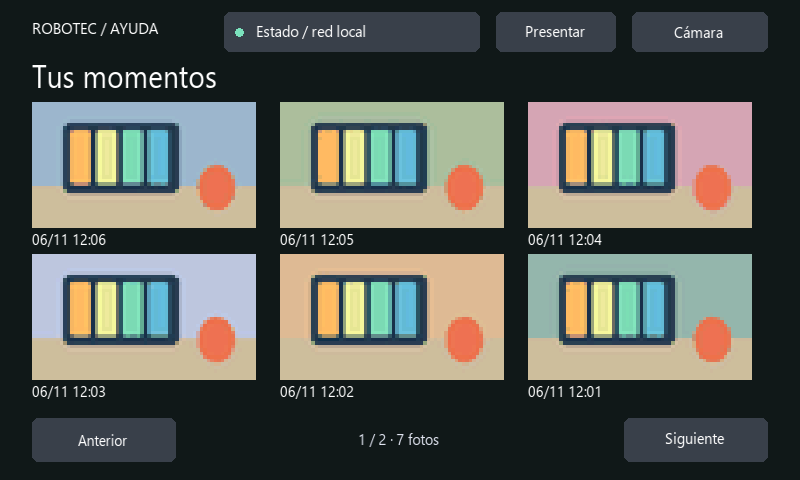
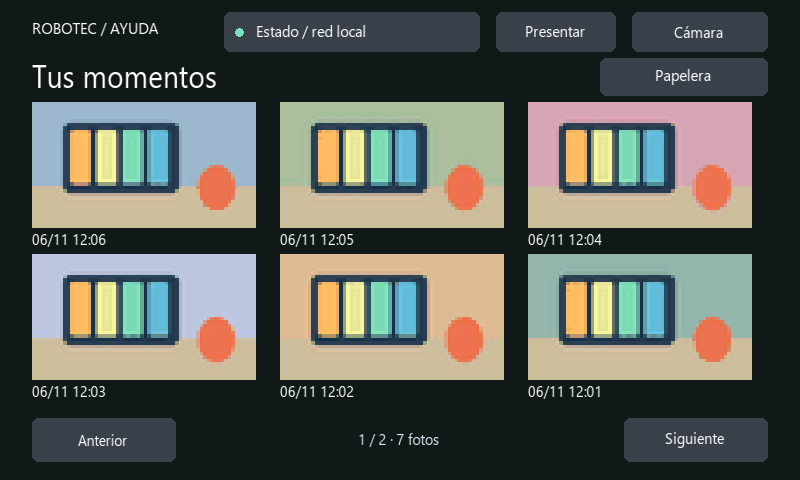
Añade eliminación confirmada y papelera privada al álbum

Changed region(s): [[0.75, 0.0938, 0.9688, 0.2188]]

diff --git a/gallery_views.py b/gallery_views.py
@@ -5,6 +5,63 @@ from photo_library import FILTERS
 
 
 class GalleryViews:
+    def photo_dialog(self, action, item=None):
+        self._photo_action=(action,item)
+        self.artwork.clear(); self.art_key=None; self.cache.clear()
+        self.dirty=True
+
+    def draw_photo_dialog(self):
+        action,item=self._photo_action; c=self.theme
+        if action=='trash_list':
+            entries=self.photos.trash_items(unlocked=self.unlocked)
+            index=max(0,min(getattr(self,'_trash_index',0),len(entries)-1))
+            self._trash_index=index; item=entries[index] if entries else None
+            self._trash_item=item
+            title='Papelera / '+str(index+1)+' de '+str(len(entries)) if entries else 'Papelera vacía'
+            message='Puedes restaurar la foto o eliminarla definitivamente.' if entries else 'Las fotos eliminadas del álbum aparecerán aquí.'
+        elif action=='error':
+            title='No se pudo completar'
+            message='La foto se conserva. Espera a que termine la cámara y vuelve a intentarlo.'
+        else:
+            title='¿Eliminar esta foto?' if action=='trash' else '¿Eliminar definitivamente?'
+            message='Se moverá a la papelera. Podrás recuperarla.' if action=='trash' else 'Esta acción no se puede deshacer.'
+        self.text('photodialogtitle',48,90,704,48,0,title,c['ink'],c['bg'],1)
+        name=(item or {}).get('name','')
+        self.text('photodialogname',48,166,704,30,2,self.fit(name,704),c['muted'],c['bg'],1)
+        self.paragraph('photodialogmessage',80,218,640,message,2,0)
+        self.soft_button('photocancel',48,400,200,52,'Volver' if action=='trash_list' else 'Cancelar')
+        if action=='trash_list':
+            if item:
+                self.soft_button('trashprev',48,312,152,48,'Anterior')
+                self.soft_button('trashnext',600,312,152,48,'Siguiente')
+                self.soft_button('trashrestore',268,400,220,52,'Restaurar',True)
+                self.soft_button('trashpurge',508,400,244,52,'Borrar para siempre')
+        elif action!='error': self.soft_button('photoconfirm',508,400,244,52,'Eliminar',True)
+
+    def touch_photo_dialog(self,x,y):
+        if not self.unlocked: return False
+        action,item=self._photo_action
+        if 12<=y<52 and 632<=x<768 or 400<=y<452 and 48<=x<248:
+            self.navigate(self.screen); return True
+        if action=='trash_list':
+            if 312<=y<360 and (48<=x<200 or 600<=x<752):
+                self._trash_index=max(0,getattr(self,'_trash_index',0)+(-1 if x<200 else 1))
+                self.photo_dialog('trash_list'); return True
+            item=getattr(self,'_trash_item',None)
+            if not item: return True
+            if 400<=y<452 and 268<=x<488:
+                if self.photos.manage_photo('restore',item['token'],item['signature'],unlocked=True):
+                    self.navigate('gallery_grid')
+                else: self.photo_dialog('error')
+            elif 400<=y<452 and 508<=x<752: self.photo_dialog('purge',item)
+        elif action in ('trash','purge') and 400<=y<452 and 508<=x<752:
+            name=item['name'] if action=='trash' else item['token']
+            success=self.photos.manage_photo(action,name,item['signature'],unlocked=True)
+            self.navigate('gallery_grid')
+            if success: self.photo_dialog('trash_list')
+            else: self.photo_dialog('error')
+        return True
+
     def gallery_clear_preview(self):
         self.artwork.clear(); self.art_key=None
         self.fill(32,100,528,297,self.theme['card'])
@@ -12,12 +69,14 @@ class GalleryViews:
             self.cache.pop(key,None)
 
     def draw_gallery(self):
+        if getattr(self,'_photo_action',None): self.draw_photo_dialog(); return
         c=self.theme; library=getattr(self,'photos',None)
         state=library.snapshot(unlocked=self.unlocked) if library else None
         count=state['count'] if state else 0
         index=state['index'] if count else -1
         title='Galería / '+str(index+1)+' de '+str(count) if count else 'Galería'
-        self.text('gallerytitle',32,64,528,28,2,title,c['ink'],c['bg'])
+        self.text('gallerytitle',32,64,348,28,2,title,c['ink'],c['bg'])
+        if count: self.soft_button('gallerydelete',400,58,160,38,'Eliminar',False,2)
         self.text('galleryeffects',584,64,184,28,2,'EFECTOS',c['muted'],c['bg'],1)
         selected=state['filter'] if state else 'Original'
         for i,label in enumerate(FILTERS):
@@ -55,6 +114,11 @@ class GalleryViews:
     def touch_gallery(self,x,y):
         library=getattr(self,'photos',None)
         if not self.unlocked or not library: return False
+        if getattr(self,'_photo_action',None): return self.touch_photo_dialog(x,y)
+        if 400<=x<560 and 58<=y<96:
+            item=library.selected_revision(unlocked=True)
+            if item: self.photo_dialog('trash',item)
+            return True
         if 632<=x<768 and 12<=y<52:
             self.navigate('gallery_grid'); return True
         state=library.snapshot(unlocked=True)

diff --git a/tests/test_photo_trash.py b/tests/test_photo_trash.py
@@ -1,0 +1,80 @@
+"""Papelera: revisión confirmada, conservación, privacidad y controles."""
+import hashlib
+import os
+from pathlib import Path
+import sys
+import tempfile
+import unittest
+sys.path.insert(0,str(Path(__file__).resolve().parents[1]))
+from PIL import Image
+from photo_library import PhotoLibrary
+from camera_tools import CameraController
+from test_photo_library import FakeCamera
+from test_gallery_views import value_with_photos
+
+
+class TrashTests(unittest.TestCase):
+    def setUp(self):
+        tmp=tempfile.TemporaryDirectory(); self.addCleanup(tmp.cleanup)
+        self.camera=FakeCamera(tmp.name)
+        self.path=self.camera.directory/'foto-prueba.jpg'
+        Image.new('RGB',(80,40),'teal').save(self.path)
+        self.original=self.path.read_bytes()
+        self.photos=PhotoLibrary(self.camera); self.addCleanup(self.photos.close)
+        self.item=self.photos.selected_revision(unlocked=True)
+
+    def move(self):
+        return self.photos.manage_photo('trash',**self.item,unlocked=True)
+
+    def test_move_restart_restore_preserves_original_and_storage(self):
+        self.assertTrue(self.move()); self.assertFalse(self.path.exists())
+        self.assertEqual(self.photos.snapshot(unlocked=True)['count'],0)
+        self.assertEqual(CameraController._usage(self.camera),(0,len(self.original)))
+        self.photos.close(); self.photos=PhotoLibrary(self.camera); self.addCleanup(self.photos.close)
+        item=self.photos.trash_items(unlocked=True)[0]
+        self.assertTrue(self.photos.manage_photo('restore',item['token'],item['signature'],unlocked=True))
+        self.assertEqual(self.path.read_bytes(),self.original)
+        self.assertEqual(self.photos.snapshot(unlocked=True)['count'],1)
+        self.assertEqual(self.photos.trash_items(unlocked=True),[])
+
+    def test_purge_removes_only_confirmed_item(self):
+        self.move(); item=self.photos.trash_items(unlocked=True)[0]
+        other=self.camera.directory/'foto-otra.jpg'; other.write_bytes(self.original)
+        self.assertFalse(self.photos.manage_photo('purge','../foto-otra.jpg',item['signature'],unlocked=True))
+        self.assertTrue(self.photos.manage_photo('purge',item['token'],item['signature'],unlocked=True))
+        self.assertEqual(other.read_bytes(),self.original)
+        self.assertEqual(self.photos.trash_items(unlocked=True),[])
+
+    def test_lock_stale_revision_busy_and_restore_collision_preserve_files(self):
+        self.assertFalse(self.photos.manage_photo('trash',**self.item,unlocked=False))
+        self.assertEqual(self.photos.trash_items(unlocked=False),[])
+        self.camera._sequence={'running':True}; self.assertFalse(self.move()); self.camera._sequence=None
+        self.path.write_bytes(self.original+b'x'); self.assertFalse(self.move())
+        self.item=self.photos.selected_revision(unlocked=True); self.assertTrue(self.move())
+        item=self.photos.trash_items(unlocked=True)[0]
+        self.path.write_bytes(b'otra foto')
+        self.assertFalse(self.photos.manage_photo('restore',item['token'],item['signature'],unlocked=True))
+        self.assertEqual(self.path.read_bytes(),b'otra foto')
+        self.assertTrue((self.camera.directory/item['token']).exists())
+
+    def test_cancel_then_confirm_and_restore_through_ui(self):
+        ui=value_with_photos(self.photos)
+        ui.draw_gallery(); ui.touch_gallery(470,75)
+        self.assertEqual(ui._photo_action[0],'trash'); self.assertTrue(self.path.exists())
+        self.assertFalse(ui.artwork)
+        ui.draw_gallery(); ui.touch_gallery(140,425)
+        self.assertTrue(self.path.exists()); self.assertIsNone(ui._photo_action)
+        ui.touch_gallery(470,75); ui.touch_gallery(620,425)
+        self.assertFalse(self.path.exists()); self.assertEqual(ui._photo_action[0],'trash_list')
+        ui.draw_gallery_grid(); ui.touch_media(360,425)
+        self.assertEqual(self.path.read_bytes(),self.original)
+        self.assertIsNone(ui._photo_action)
+
+    def test_lock_discards_confirmation_and_cannot_delete(self):
+        ui=value_with_photos(self.photos); ui.touch_gallery(470,75)
+        ui.unlocked=False; ui.navigate('lock')
+        self.assertIsNone(ui._photo_action)
+        self.assertFalse(ui.touch_gallery(620,425)); self.assertTrue(self.path.exists())
+
+
+if __name__=='__main__': unittest.main()

diff --git a/photo_library.py b/photo_library.py
@@ -15,6 +15,7 @@ import camera_tools as limits
 
 FILTERS = ('Original', 'B/N', 'Sepia', 'Negativo', 'Pop', 'Espejo', 'Boceto')
 PHOTO_NAME = re.compile(r'(?:foto|efecto)-[A-Za-z0-9][A-Za-z0-9_-]{0,95}\.jpg\Z')
+TRASH_NAME = re.compile(r'\.trash-[a-f0-9]{32}--((?:foto|efecto)-[A-Za-z0-9][A-Za-z0-9_-]{0,95}\.jpg)\Z')
 PREVIEW_SIZE = (128, 72)
 MAX_PREVIEWS = 8
 MAX_DECODE_PIXELS = 16_000_000
@@ -252,6 +253,61 @@ class PhotoLibrary:
             self._save_job = ('save', self._key_locked(), self._generation, self._access)
             self._cv.notify_all()
             return True
+
+    def trash_items(self, unlocked=False):
+        """Papelera persistente; sus bytes siguen contando para el límite."""
+        with self._cv:
+            if not self._allowed_locked(unlocked) or not self._root_valid(): return []
+            result=[]
+            for path in self.directory.iterdir():
+                match=TRASH_NAME.fullmatch(path.name)
+                if not match: continue
+                try:
+                    info=path.lstat()
+                    if stat.S_ISREG(info.st_mode) and info.st_nlink==1:
+                        result.append(dict(token=path.name, name=match[1], signature=self._signature(info)))
+                except OSError: pass
+            return sorted(result,key=lambda row: row['signature'][3],reverse=True)
+
+    def manage_photo(self, action, name, signature, unlocked=False):
+        """Opera sólo sobre la revisión confirmada; nunca sobre otra selección."""
+        with self._cv:
+            if not self._allowed_locked(unlocked) or not self._root_valid(): return False
+            if self._saving or self.camera._busy or self.camera._job or self.camera._sequence:
+                self._message='Espera a que termine la cámara'; return False
+            try:
+                if action=='trash':
+                    path,info=self._file_info(name)
+                    target=self.directory/('.trash-'+uuid.uuid4().hex+'--'+name)
+                elif action in ('restore','purge'):
+                    match=TRASH_NAME.fullmatch(name)
+                    if not match: return False
+                    path=self.directory/name; info=path.lstat()
+                    if not stat.S_ISREG(info.st_mode) or info.st_nlink!=1: return False
+                    target=self.directory/match[1]
+                else: return False
+                if self._signature(info)!=tuple(signature): return False
+                if action=='purge': path.unlink()
+                else:
+                    # Un enlace exclusivo evita sustituir un archivo existente.
+                    os.link(path,target,follow_symlinks=False)
+                    try: path.unlink()
+                    except OSError:
+                        target.unlink(); raise
+                self._cache.clear(); self._thumbs.clear(); self._thumb_job=None
+                self._changed_locked(); self._refresh_locked(force=True)
+                self.camera._usage_cache=None
+                self._message={'trash':'Foto en la papelera','restore':'Foto restaurada','purge':'Foto eliminada definitivamente'}[action]
+                return True
+            except (OSError,ValueError):
+                self._message='No se pudo completar. La foto se conserva.'; return False
+
+    def selected_revision(self, unlocked=False):
+        with self._cv:
+            if not self._allowed_locked(unlocked): return None
+            self._refresh_locked(force=True)
+            key=self._key_locked()
+            return dict(name=key[0],signature=key[1]) if key else None
 
     def lock(self):
         with self._cv:

diff --git a/media_views.py b/media_views.py
@@ -10,11 +10,13 @@ class MediaViews:
         self.artwork.extend(commands); self.art_total+=len(commands)
 
     def draw_gallery_grid(self):
+        if getattr(self,'_photo_action',None): self.draw_photo_dialog(); return
         c=self.theme; library=getattr(self,'photos',None)
         if not library: return
         state=library.grid(getattr(self,'_album_page',0),unlocked=self.unlocked)
         self._album_page=state['page']; self._album_names=[i['name'] for i in state['items']]
-        self.text('albumtitle',32,62,736,30,0,'Tus momentos',c['ink'],c['bg'])
+        self.text('albumtitle',32,62,528,30,0,'Tus momentos',c['ink'],c['bg'])
+        self.soft_button('albumtrash',600,58,168,38,'Papelera',False,2)
         identity=tuple(i['key'] for i in state['items'])
         if self.cache.get('album-layout')!=identity:
             self.artwork.clear(); self.art_key=None
@@ -130,9 +132,12 @@ class MediaViews:
     def touch_media(self,x,y):
         if not self.unlocked: return False
         screen=self.screen
+        if screen=='gallery_grid' and getattr(self,'_photo_action',None): return self.touch_photo_dialog(x,y)
         if 632<=x<768 and 12<=y<52:
             self.navigate('status' if screen=='viewfinder' else 'viewfinder' if screen=='gallery_grid' else 'gallery_grid'); return True
         if screen=='gallery_grid':
+            if 600<=x<768 and 58<=y<96:
+                self.photo_dialog('trash_list'); return True
             if 496<=x<616 and 12<=y<52:
                 state=self.photos.grid(getattr(self,'_album_page',0),unlocked=True)
                 if state['count']:

diff --git a/editorial_views.py b/editorial_views.py
@@ -37,6 +37,9 @@ class EditorialViews:
         if self.screen in ('gallery','gallery_grid','viewfinder','photo_show'):
             self.text('brand',32,14,178,32,2,'ROBOTEC / AYUDA',c['ink'],c['bg'])
             self.draw_connection_badge()
+            if getattr(self,'_photo_action',None):
+                self.soft_button('galleryback',632,12,136,40,'Volver')
+                self.dirty=False; return
             self.soft_button('galleryback',632,12,136,40,{'gallery':'Álbum','gallery_grid':'Cámara','viewfinder':'Volver','photo_show':'Álbum'}[self.screen])
             if self.screen=='gallery_grid': self.soft_button('showstart',496,12,120,40,'Presentar')
             self.dirty=False; return

diff --git a/robotec.py b/robotec.py
@@ -289,6 +289,7 @@ class Robotec(IdleControl, FriendlyUI, FocusViews, LibraryViews, CameraViews, Ga
         self.soft_button(key,x,y,w,h,value,selected,font)
 
     def navigate(self,view):
+        self._photo_action=None; self._trash_item=None
         if not self.unlocked and view not in ('lock','away','help'): view='lock'
         if view=='ambient' and self.screen!='ambient' and self.ambient_since is None:
             self.ambient_since=time.monotonic()

diff --git a/camera_tools.py b/camera_tools.py
@@ -82,7 +82,7 @@ class CameraController:
             try:
                 if item.is_file() and not item.is_symlink():
                     size += item.stat().st_size
-                    if item.suffix.lower() in ('.jpg', '.jpeg'): files += 1
+                    if not item.name.startswith('.') and item.suffix.lower() in ('.jpg', '.jpeg'): files += 1
             except FileNotFoundError:
                 pass
         return files, size

diff --git a/README.md b/README.md
@@ -87,6 +87,8 @@ En **Cámara**, pulsa **Activar cámara** para encuadrar sin guardar imágenes. 
 
 En **Cámara → Galería**, explora seis miniaturas por página y toca una para abrirla. **Presentar** muestra las fotos automáticamente; permite pausar y mantiene el bloqueo por inactividad. Prueba Original, B/N, Sepia, Negativo, Pop, Espejo o Boceto; la vista previa no modifica ningún archivo. **Guardar copia** crea un JPEG separado con el efecto y conserva el tamaño de la foto. Detén las capturas o el timelapse antes de guardar una copia. La galería requiere desbloquear el panel y muestra fotos existentes, sin vídeo en directo.
 
+Para quitar una foto, ábrela y pulsa **Eliminar → Eliminar**. **Cancelar** conserva la foto en el álbum. La foto se mueve a una papelera privada que persiste tras reiniciar. En **Galería → Papelera**, usa **Anterior/Siguiente** y **Restaurar** para recuperarla. **Borrar para siempre → Eliminar** elimina únicamente la foto seleccionada y no se puede deshacer. Detén la cámara o el timelapse antes de gestionar fotos. La papelera sigue ocupando almacenamiento: sólo el borrado definitivo libera ese espacio. Las copias con filtros se gestionan por separado de sus originales.
+
 ![Vista ambiental](docs/images/ambient.png)
 
 Vista reconstruida con datos de demostración y tipografía aproximada.
